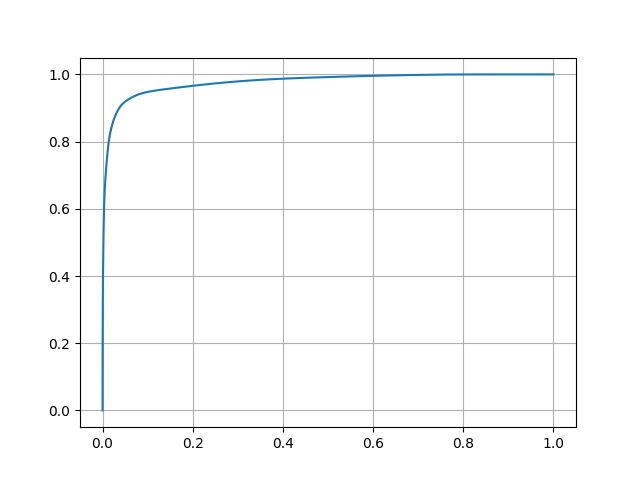
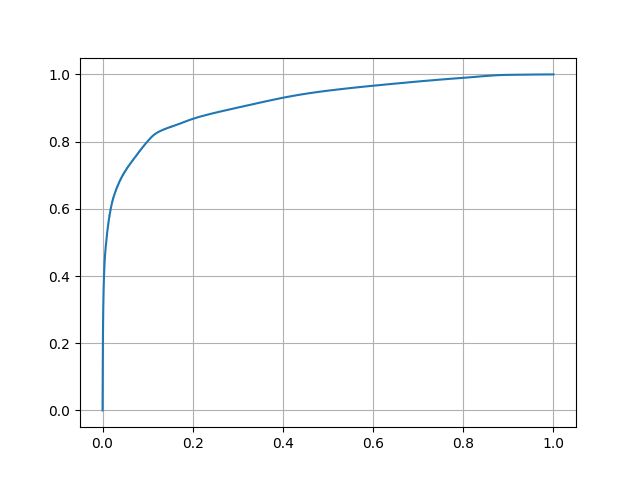
Data preprocess

diff --git a/training/localization_trainer.py b/training/localization_trainer.py
@@ -16,6 +16,8 @@ from tqdm import tqdm
 import matplotlib.pyplot as plt
 
 from models import GCN
+from equations import build_equations
+
 
 class LocalizationTrainer:
 
@@ -27,7 +29,6 @@ class LocalizationTrainer:
         self.model_name = "localize.pt"
         self.localize_model_path = path.join(self.checkpoint_dir, self.model_name)
         self.size = self.conf["train"]["gpus"]
-
         self.localize_model = GCN(self.conf, 4, self.conf["model"]["hidden_size"], dense=True)
 
     def _init_ddp(self, rank, datasets, shuffles):
@@ -69,13 +70,6 @@ class LocalizationTrainer:
             if rank == 0:
                 print("PINN model does not exist")
             return
-        
-        pinn_ckpt = torch.load(self.pinn_model_path)
-        conf = copy.deepcopy(self.conf)
-        conf["model"] = pinn_ckpt["structure"]
-        self.pinn_model = GCN(conf, 2, 2)
-        self.pinn_model.load_state_dict(pinn_ckpt["model"])
-        self.pinn_model.eval()
 
         optim = torch.optim.Adam(self.localize_model.parameters(), 
                                  lr=self.conf["train"]["lr"],
@@ -84,7 +78,6 @@ class LocalizationTrainer:
         loss_fn = torch.nn.BCEWithLogitsLoss()
         
         device = torch.device(f"cuda:{rank}") if self.conf["train"]["cuda"] else torch.device("cpu")
-        self.pinn_model = self.pinn_model.to(device)
         self.localize_model = self.localize_model.to(device)
         checkpoint = None
         if ray.ray.is_initialized():
@@ -129,13 +122,8 @@ class LocalizationTrainer:
                 optim.zero_grad()
                 data = data.to(device)
 
-                embedding = self.pinn_model(data)
-                if torch.any(torch.isinf(embedding)):
-                    print("Embed", embedding)
-
-                data.x = torch.hstack((data.x, embedding))
                 logits = self.localize_model(data)
-                loss = loss_fn(logits + 1e-10, data.classes)
+                loss = loss_fn(logits, data.classes)
                 loss.backward()
                 if self.conf["train"]["max_norm"] > 0:
                     torch.nn.utils.clip_grad.clip_grad_norm_(self.localize_model.parameters(), self.conf["train"]["max_norm"])
@@ -162,8 +150,6 @@ class LocalizationTrainer:
                 total_loss = 0
                 for data in loader:
                     data = data.to(device)
-                    embedding = self.pinn_model(data)
-                    data.x = torch.hstack((data.x, embedding))
                     logits = self.localize_model(data)
                     loss = loss_fn(logits + 1e-10, data.classes)
                     total_loss += loss
@@ -238,8 +224,9 @@ class LocalizationTrainer:
         with torch.no_grad():
             for data in data_loader:
                 data = data.to(device)
-                embedding = self.pinn_model(data)
-                data.x = torch.hstack((data.x, embedding))
+                data = self.embed(data)
+                # embedding = self.pinn_model(data)
+                # data.x = torch.hstack((data.x, embedding))
                 logits = self.localize_model(data)
                 threshold = torch.sigmoid(logits + 1e-10)
                 prediction = threshold > 0.5
@@ -296,3 +283,14 @@ class LocalizationTrainer:
                 dist.gather(predicted, [], 0)
                 dist.gather(truth, [], 0)
                 dist.gather(thresholds, [], 0)
+
+    @torch.no_grad
+    def embed(self, data):
+        pinn_output = self.pinn_model(data)
+        physics_loss = torch.zeros((len(data), len(self.equations)), 
+                                   device=pinn_output.device)
+        for i, equation in enumerate(self.equations):
+            physics_loss[:, i] = equation.confidence_loss(data, pinn_output, None)
+        physics_loss = physics_loss.view(-1, 2)
+        data.x = torch.hstack((data.x, physics_loss))
+        return data

diff --git a/datasets/grid_graph_dataset.py b/datasets/grid_graph_dataset.py
@@ -1,17 +1,19 @@
 import os
+from os import path
 import json
 import numpy as np
 import pandas as pd
 from typing import List, Tuple, Union
 import torch
 from torch_geometric.data import Data, InMemoryDataset
+from torch_geometric.loader import DataLoader
 from tqdm import tqdm
 
-from .grid_dataset import GridDataset
 from utils import to_complex
+from equations import build_equations
 
 class GridGraphDataset(InMemoryDataset):
-    def __init__(self, conf, data_path):
+    def __init__(self, conf, data_path, pinn_model=None):
         root = data_path[:data_path.index(".csv")]
         if not os.path.exists(root):
             os.makedirs(root)
@@ -21,6 +23,10 @@ class GridGraphDataset(InMemoryDataset):
         self.mva_base = conf["data"]["mva_base"]
         self.n_buses = conf["data"]["n_buses"]
         self.powerworld = conf["data"]["powerworld"]
+        self.batch_size = conf["train"]["batch_size"]
+        self.pinn_model = pinn_model
+        if self.pinn_model is not None:
+            self.equations = build_equations(conf)
 
         data = pd.read_csv(data_path).sample(frac=1)
         self.features = data.iloc[:, 2: -2].to_numpy()
@@ -29,7 +35,10 @@ class GridGraphDataset(InMemoryDataset):
         self.labels = self.labels.to_numpy()
         
         super(InMemoryDataset, self).__init__(root)
-        self.load(self.processed_paths[0])
+        if self.pinn_model is None:
+            self.load(self.processed_paths[0])
+        else:
+            self.load(self.processed_paths[1])
 
     def __len__(self):
         return len(self.features)
@@ -87,12 +96,22 @@ class GridGraphDataset(InMemoryDataset):
     
     @property
     def processed_file_names(self) -> str | List[str] | Tuple:
-        return ["data.pt"]
+        return ["data.pt", "transformed.pt"]
 
     def download(self):
         pass
 
     def process(self):
+        base_data = self.processed_paths[0]
+        if not path.exists(base_data):
+            self.base_process()
+        
+        if self.pinn_model is not None:
+            self.load(base_data)
+            grids = self.embed()
+            self.save(grids, self.processed_paths[1])
+
+    def base_process(self):
         self._per_unit()
         self.features = self.features.astype(np.float32)
 
@@ -173,6 +192,21 @@ class GridGraphDataset(InMemoryDataset):
             
         self.save(grids, self.processed_paths[0])
 
+    def embed(self):
+        loader = DataLoader(self, batch_size=self.batch_size)
+        new_grids = []
+        for data in tqdm(loader):
+            pinn_output = self.pinn_model(data)
+            physics_loss = torch.zeros((len(data), len(self.equations)), 
+                                    device=pinn_output.device)
+            for i, equation in enumerate(self.equations):
+                physics_loss[:, i] = equation.confidence_loss(data, pinn_output, None)
+            physics_loss = physics_loss.view(-1, 2)
+            data.x = torch.hstack((data.x, physics_loss))
+            new_grids.extend(data.to_data_list())
+
+        return new_grids
+    
     def get_categorical_features(self):
         return {}
     

diff --git a/run.py b/run.py
@@ -1,3 +1,4 @@
+import copy
 import os
 from sched import scheduler
 import sys
@@ -22,6 +23,7 @@ from ray.tune.schedulers import ASHAScheduler, PopulationBasedTraining
 from ray.tune.search.hyperopt import HyperOptSearch
 
 from datasets import GridDataset, GridGraphDataset
+from models import GCN
 from training import PINNTrainer, LocalizationTrainer
 from equations import build_equations
 from utils import generate_fdia
@@ -55,7 +57,9 @@ def train_localize(config: dict=None):
         conf["model"]["n_layers"] = config.get("n_layers", conf["model"]["n_layers"])
         conf["train"]["lr"] = config["lr"]
         conf["train"]["regularization"] = config["regularization"]
-    dataset = GridGraphDataset(conf, conf["data"]["attack"])
+    pinn_model = load_pinn()
+    dataset = GridGraphDataset(conf, conf["data"]["attack"], pinn_model)
+    
     train_dataset, val_dataset = torch.utils.data.random_split(dataset, [train_fraction, validate_fraction])
     trainer = LocalizationTrainer(conf)
     if ray.is_initialized():
@@ -177,6 +181,14 @@ def hyperparameter_optimize():
     print(f"Best trial config: {best_trial.config}")
     print(f"Best trial checkpoint: {best_trial.path}")
 
+def load_pinn():
+    pinn_ckpt = torch.load(pinn_ckpt_path)
+    config = copy.deepcopy(conf)
+    config["model"] = pinn_ckpt["structure"]
+    pinn_model = GCN(config, 2, 2)
+    pinn_model.load_state_dict(pinn_ckpt["model"])
+    return pinn_model
+
 if __name__ == '__main__':
     if len(sys.argv) != 2:
         print("Usage: main.py config")
@@ -190,6 +202,7 @@ if __name__ == '__main__':
     mp.set_sharing_strategy("file_system")
     task = conf["task"]
     print("Task:", task)
+    pinn_ckpt_path = path.join(conf["train"]["checkpoint_dir"], conf["train"]["checkpoint"], "pinn.pt")
     train_fraction = conf["train"]["train_fraction"]
     validate_fraction = conf["train"]["validate_fraction"]
     find_error_fraction = conf["train"]["find_error_fraction"]

diff --git a/models/gcn.py b/models/gcn.py
@@ -13,15 +13,16 @@ class GCN(nn.Module):
         n_buses = conf["data"]["n_buses"]
         self.gnns = nn.ModuleList()
         for i in range(n_layers):
-            if i < n_layers - 1:
-                concat = True
-            else:
-                concat = dense
+            # if i < n_layers - 1:
+            #     concat = True
+            # else:
+            #     concat = dense
+            concat = i < n_layers - 1
             self.gnns.append(gnn.GATConv(n_inputs if i == 0 else hidden_size * n_heads,
                                          hidden_size if i < n_layers - 1 else n_outputs,
                                          n_heads, dropout=dropout, concat=concat))
         if self.dense:
-            self.classify = nn.Linear(n_outputs * n_buses * n_heads, 2 * n_buses)
+            self.classify = nn.Linear(n_outputs * n_buses, 2 * n_buses)
 
     def forward(self, data):
         x = data.x

diff --git a/equations/build_equations.py b/equations/build_equations.py
@@ -4,7 +4,7 @@ from .reactive_power_equation import ReactivePowerEquation
 from .real_power_graph_equation import RealPowerGraphEquation
 from .reactive_power_graph_equation import ReactivePowerGrapghEquation
 
-def build_equations(conf, categorical_idxs, continuous_idxs):
+def build_equations(conf, categorical_idxs=None, continuous_idxs=None):
     dataset = conf["data"]["type"]
     equations = []
     if dataset == "swat":

diff --git a/training/pinn_trainer.py b/training/pinn_trainer.py
@@ -237,7 +237,8 @@ class PINNTrainer:
             return
         device = torch.device(f"cuda:{rank}") if self.conf["train"]["cuda"] else torch.device("cpu")
         checkpoint = torch.load(self.checkpoint_path)
-        print(checkpoint["structure"])
+        if rank == 0:
+            print(checkpoint["structure"])
         self.model.load_state_dict(checkpoint["model"])
         self.model.eval()
         if rank == 0:
